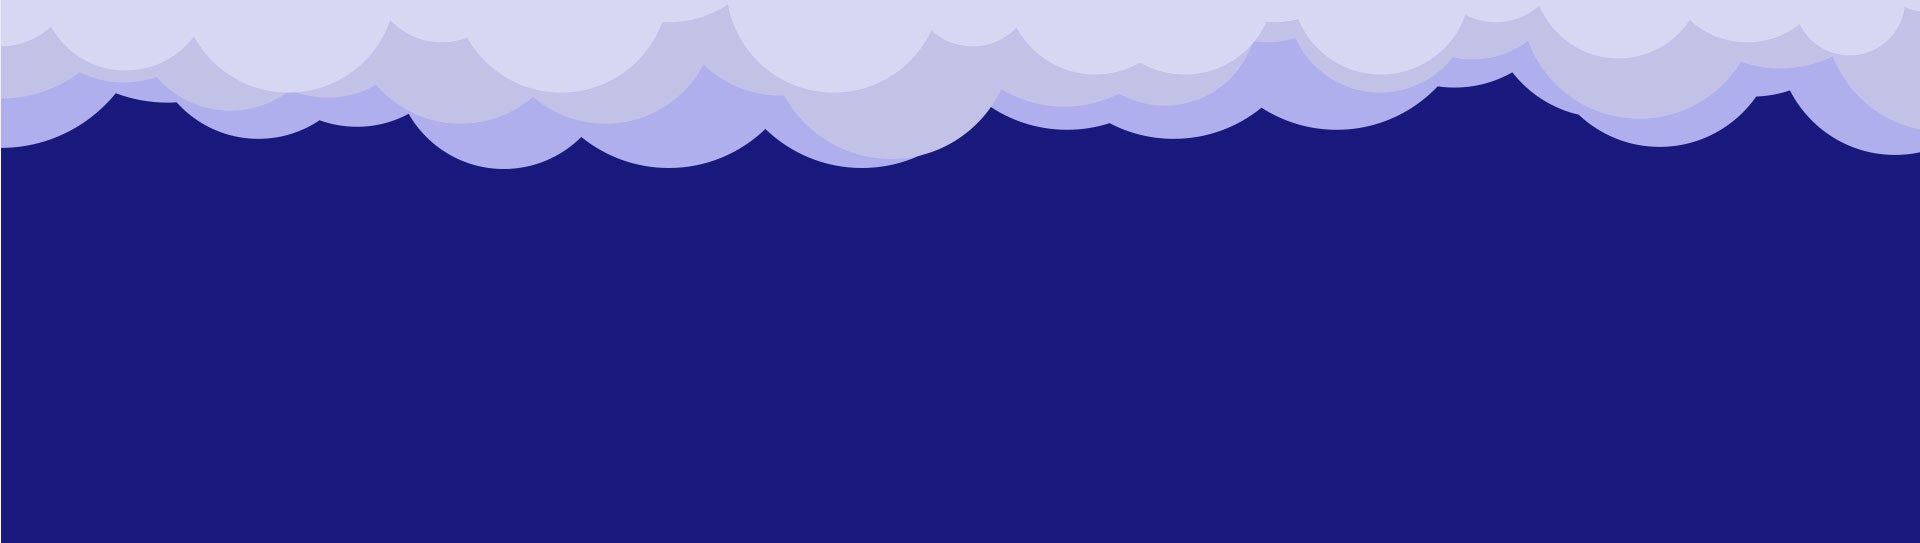
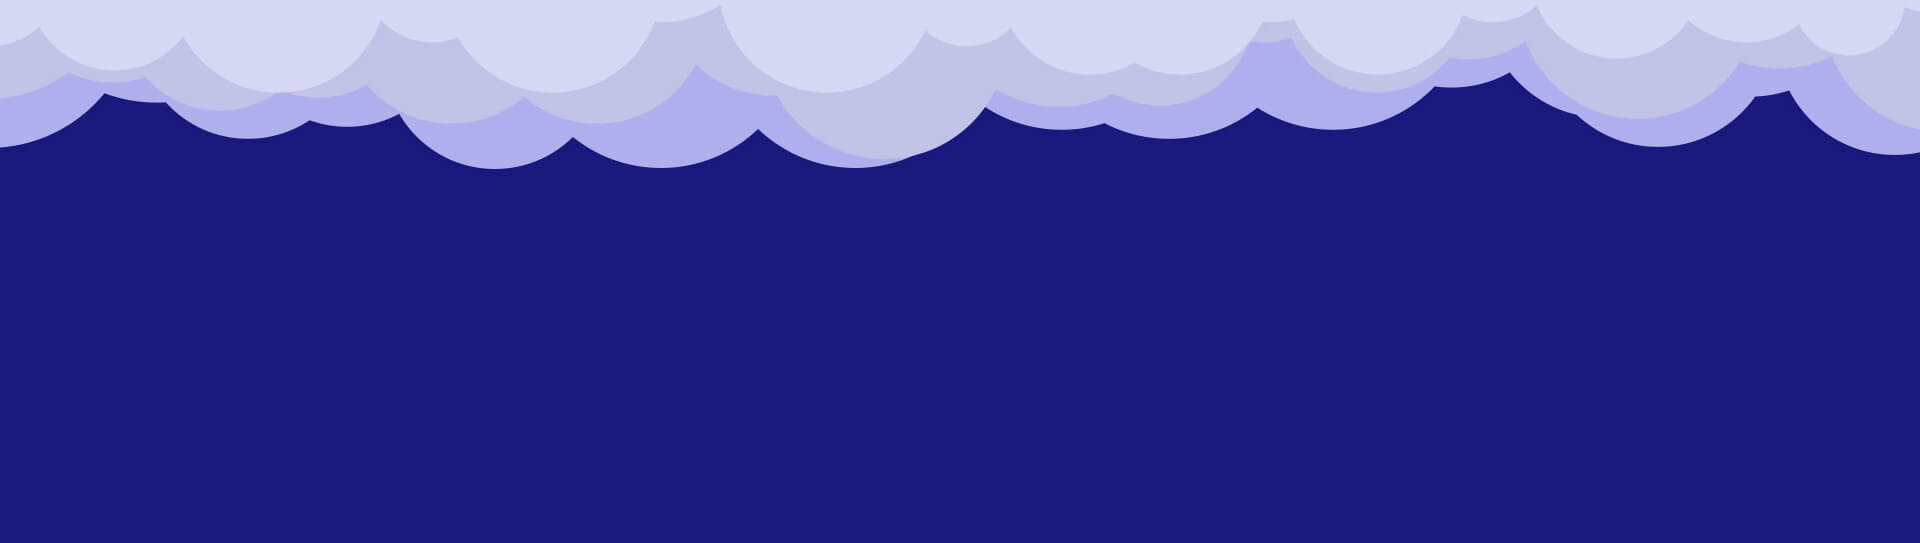
Оптимизировал изображения и поправил адаптацию footer

diff --git a/css/style.min.css b/css/style.min.css
@@ -1,2 +1,2 @@
 @charset "UTF-8";
-/*! normalize.css v4.2.0 | MIT License | github.com/necolas/normalize.css */html{font-family:sans-serif;line-height:1.15;-ms-text-size-adjust:100%;-webkit-text-size-adjust:100%}body{margin:0}article,aside,details,figcaption,figure,footer,header,main,menu,nav,section,summary{display:block}audio,canvas,progress,video{display:inline-block}audio:not([controls]){display:none;height:0}progress{vertical-align:baseline}[hidden],template{display:none}a{background-color:transparent;-webkit-text-decoration-skip:objects}a:active,a:hover{outline-width:0}abbr[title]{border-bottom:none;text-decoration:underline;-webkit-text-decoration:underline dotted;text-decoration:underline dotted}b,strong{font-weight:inherit;font-weight:bolder}dfn{font-style:italic}h1{font-size:2em;margin:.67em 0}mark{background-color:#ff0;color:#000}small{font-size:80%}sub,sup{font-size:75%;line-height:0;position:relative;vertical-align:baseline}sub{bottom:-.25em}sup{top:-.5em}img{border-style:none}svg:not(:root){overflow:hidden}code,kbd,pre,samp{font-family:monospace,monospace;font-size:1em}figure{margin:1em 40px}hr{box-sizing:content-box;height:0;overflow:visible}button,input,optgroup,select,textarea{font:inherit;margin:0}optgroup{font-weight:700}button,input{overflow:visible}button,select{text-transform:none}[type=reset],[type=submit],button,html [type=button]{-webkit-appearance:button}[type=button]::-moz-focus-inner,[type=reset]::-moz-focus-inner,[type=submit]::-moz-focus-inner,button::-moz-focus-inner{border-style:none;padding:0}[type=button]:-moz-focusring,[type=reset]:-moz-focusring,[type=submit]:-moz-focusring,button:-moz-focusring{outline:1px dotted ButtonText}fieldset{border:1px solid silver;margin:0 2px;padding:.35em .625em .75em}legend{box-sizing:border-box;color:inherit;display:table;max-width:100%;padding:0;white-space:normal}textarea{overflow:auto}[type=checkbox],[type=radio]{box-sizing:border-box;padding:0}[type=number]::-webkit-inner-spin-button,[type=number]::-webkit-outer-spin-button{height:auto}[type=search]{-webkit-appearance:textfield;outline-offset:-2px}[type=search]::-webkit-search-cancel-button,[type=search]::-webkit-search-decoration{-webkit-appearance:none}::-webkit-input-placeholder{color:inherit;opacity:.54}::-webkit-file-upload-button{-webkit-appearance:button;font:inherit}@font-face{font-family:regular;src:url(../fonts/Alegreyasans.woff2) format("woff2"),url(../fonts/Alegreyasans.woff) format("woff");font-weight:400;font-style:normal}@font-face{font-family:bold;src:url(../fonts/Alegreyasansbold.woff2) format("woff2"),url(../fonts/Alegreyasansbold.woff) format("woff");font-weight:400;font-style:normal}@font-face{font-family:extrabold;src:url(../fonts/Alegreyasansextrabold.woff2) format("woff2"),url(../fonts/Alegreyasansextrabold.woff) format("woff");font-weight:400;font-style:normal}@font-face{font-family:medium;src:url(../fonts/Alegreyasansmedium.woff2) format("woff2"),url(../fonts/Alegreyasansmedium.woff) format("woff");font-weight:400;font-style:normal}body{position:relative;font-family:medium,Arial,sans-serif;font-size:18px}@media (min-width:1640px){body{font-size:24px}}a{text-decoration:none}img{max-width:100%;height:auto}.clearfix:after{content:"";display:table;clear:both}h1,h2,h3{text-transform:uppercase}h2{font-family:extrabold,Arial,sans-serif;font-size:52px;line-height:52px;text-align:center}@media (min-width:1640px){h2{font-size:72px;line-height:72px}}.container{margin:0 auto;width:1100px}@media (min-width:1640px){.container{width:1630px}}.header{background-color:#19197c;padding-top:15px}@media (min-width:1640px){.header{padding-top:20px}}.header__wrap{display:-ms-flexbox;display:flex;-ms-flex-pack:justify;justify-content:space-between;-ms-flex-align:center;align-items:center}.header__logo img{width:200px}@media (min-width:1640px){.header__logo img{width:277px}}.header__nav a{color:#d9d9ec;text-transform:uppercase;font-family:bold,Arial,sans-serif;margin-right:20px}@media (min-width:1640px){.header__nav a{margin-right:30px}}.header__nav a:last-child{margin-right:0}.header__entry{background-color:#19197c;border:2px solid #d24b43;color:#d24b43;text-transform:uppercase;font-family:bold,Arial,sans-serif;padding:12px 23px}@media (min-width:1640px){.header__entry{padding:18px 33px;border:3px solid #d24b43}}.header__link--active{position:relative}.header__link--active:before{position:absolute;content:"";width:34px;height:1px;background-color:#d24b43;top:20px;left:0}@media (min-width:1640px){.header__link--active:before{top:30px}}.about{background:#19197c url(../img/rocket.jpg) no-repeat;background-size:cover;padding:0;padding-top:100px;padding-bottom:300px;color:#eaeaf5;width:100%}@media (min-width:1640px){.about{padding-top:165px;padding-bottom:325px}}.about__wrap{max-width:700px}@media (min-width:1640px){.about__wrap{max-width:1068px}}.about__title{font-family:extrabold,Arial,sans-serif;font-size:40px;line-height:52px;margin-top:0;margin-bottom:40px}@media (min-width:1640px){.about__title{font-size:60px;line-height:72px;margin-bottom:60px}}.about__text{font-size:26px;font-family:regular,Arial,sans-serif;margin-bottom:40px}@media (min-width:1640px){.about__text{margin-bottom:60px;font-size:36px}}.about__but{width:220px;height:59px;background-color:#d24b43;border:none;cursor:pointer;color:#eaeaf5;text-transform:uppercase;font-family:bold,Arial,sans-serif}@media (min-width:1640px){.about__but{width:290px;height:79px}}.advantages{background-color:#d6d6f2;padding-top:155px;margin-top:-1px;padding-bottom:100px;color:#1f1f79}.advantages__wrap{display:-ms-flexbox;display:flex;-ms-flex-pack:justify;justify-content:space-between;padding-top:90px}@media (min-width:1640px){.advantages__wrap{padding-top:215px}}.advantages__title{margin:0}.advantages__item{display:-ms-flexbox;display:flex;-ms-flex-direction:column;flex-direction:column;-ms-flex-align:center;align-items:center;text-align:center}.advantages__item p{line-height:36px;max-width:257px}@media (min-width:1640px){.advantages__item p{max-width:287px}}.advantages__item img{width:240px}@media (min-width:1640px){.advantages__item img{width:287px}}.advantages__item-wrap:hover .advantages__item-title{margin-top:40px}@media (min-width:1640px){.advantages__item-wrap:hover .advantages__item-title{margin-top:80px}}.advantages__item-title{font-family:bold,Arial,sans-serif;font-size:38px;margin-top:100px;margin-bottom:0;transition:margin-top .7s;cursor:pointer}@media (min-width:1640px){.advantages__item-title{margin-top:168px;font-size:48px}}.advantages__hidden{opacity:0;transition:opacity .7s}.advantages__item-wrap:hover .advantages__hidden{opacity:1}.social-link a{margin-right:10px}@media (min-width:1640px){.social-link a{margin-right:30px}}.social-link a img{width:32px;height:32px}@media (min-width:1640px){.social-link a img{width:42px;height:42px}}.social-link a:last-child{margin-right:0}.courses__item{display:-ms-flexbox;display:flex;outline:none}.courses__left{width:45%;background-color:#d6d6f2;padding-left:5%;padding-right:10px;padding-top:30px;color:#1f1f79}@media (min-width:1640px){.courses__left{padding-top:68px}}.courses__left h2{font-family:extrabold,Arial,sans-serif;text-align:right;margin-top:0;margin-bottom:138px}.courses__left-text{max-width:500px}@media (min-width:1640px){.courses__left-text{max-width:627px}}.courses__left-text h3{font-family:bold,Arial,sans-serif;font-size:38px}@media (min-width:1640px){.courses__left-text h3{font-size:48px}}.courses__right{width:50%;background-color:#1f1f79;padding-left:10px;position:relative;min-height:700px;padding-top:30px}@media (min-width:1640px){.courses__right{padding-top:68px;min-height:1082px}}.courses__right h2{font-family:extrabold,Arial,sans-serif;color:#e5e5ed;margin-top:0;text-align:left}.courses__presentation{position:absolute;top:50%;left:50%;margin:-172px 0 0 -172px;width:344px}@media (min-width:1640px){.courses__presentation{width:444px;margin:-222px 0 0 -222px}}.courses__triangle{width:0;height:0;border-top:125px solid transparent;border-left:195px solid #d24b43;border-bottom:125px solid transparent;margin-top:-125px;left:-65px}.courses__arrow,.courses__triangle{position:absolute;top:50%;cursor:pointer}.courses__arrow{margin-top:-13px;left:-10px}.courses__right-wrap{position:absolute;top:50%;margin-top:-125px;left:-65px;cursor:pointer}.courses__right-img{transition:all .7s}.courses__right-circle,.courses__right-wrap:hover .courses__right-img{transform:scaleX(0) scaleY(0)}.courses__right-circle{position:absolute;width:290px;height:290px;background-color:#d24b43;border:none;border-radius:50%;top:0;left:-81px;transition:all .7s}.courses__right-circle-text{margin:0;text-align:center;line-height:290px;text-transform:uppercase;color:#e9e9f1;font-size:30px;opacity:0;transition:all .7s}.courses__right-wrap:hover .courses__right-circle-text{opacity:1}.courses__right-position{position:relative}.courses__right-wrap:hover .courses__right-circle{transform:scaleX(1) scaleY(1);opacity:1}.teachers{background-color:#d6d6f2;padding-top:72px;padding-bottom:277px}@media (min-width:1640px){.teachers{padding-bottom:377px}}.teachers h2{font-family:extrabold,Arial,sans-serif;text-align:center;margin:0;color:#1f1f79;margin-bottom:66px}@media (min-width:1640px){.teachers h2{margin-bottom:86px}}.teachers__wrap{display:-ms-flexbox;display:flex;-ms-flex-pack:justify;justify-content:space-between}.teachers__item{background-color:#1f1f79;padding:36px 20px;border-radius:5px;color:#d6d6f2;text-align:center;max-width:310px}@media (min-width:1640px){.teachers__item{padding:55px 30px;max-width:510px}}.teachers__item h3{margin-top:0;margin-bottom:30px;font-size:30px}.teachers__item p{font-family:regular,Arial,sans-serif;font-size:18px;margin-bottom:58px}.teachers__circle{width:216px;height:216px;border-radius:50%;border:none;background-color:#d6d6f2;margin:0 auto 55px}@media (min-width:1640px){.teachers__circle{width:316px;height:316px}}.teachers__social{display:-ms-flexbox;display:flex;-ms-flex-pack:justify;justify-content:space-between}.teachers__social a{margin-right:30px}.teachers__social img:last-child{margin-right:0}.teachers__slider .slick-dots{position:absolute;bottom:-110px;list-style:none;display:block;text-align:center;padding:0;margin:0;width:100%}.reviews{background-color:#d6d6f2;padding-bottom:255px}@media (min-width:1640px){.reviews{padding-bottom:377px}}.reviews h2{font-family:extrabold,Arial,sans-serif;text-align:center;margin:0;color:#1f1f79;margin-bottom:86px}.reviews__wrap{display:-ms-flexbox;display:flex;-ms-flex-pack:justify;justify-content:space-between;-ms-flex-align:start;align-items:flex-start;color:#1f1f79}.reviews__text{margin-top:15px;max-width:650px;padding:20px;border:3px solid #1f1f79;border-radius:5px;line-height:26px;font-size:16px}@media (min-width:1640px){.reviews__text{max-width:1150px;padding:27px;line-height:36px;font-size:24px}}.reviews__text a{display:block;text-align:right;text-decoration:underline;font-size:20px;color:#d24b43}@media (min-width:1640px){.reviews__text a{font-size:30px}}.reviews__circle{width:290px;height:290px;border-radius:50%;border:none;background-color:#1f1f79;margin:0 auto 55px}@media (min-width:1640px){.reviews__circle{width:350px;height:350px}}.reviews__about{text-align:center}.reviews__about h3{margin-top:0;margin-bottom:30px;font-size:30px}.reviews__about p{font-family:regular,Arial,sans-serif;font-size:18px;margin-bottom:58px}.reviews__slider .slick-dots{position:absolute;bottom:-70px;list-style:none;display:block;text-align:center;padding:0;margin:0;width:100%}@media (min-width:1640px){.reviews__slider .slick-dots{bottom:-110px}}.bottom{background:url(../img/bottom.jpg) no-repeat;background-size:cover;padding:0;width:100%;height:250px}.slick-slider{box-sizing:border-box;-webkit-touch-callout:none;-webkit-user-select:none;-moz-user-select:none;-ms-user-select:none;user-select:none;-ms-touch-action:pan-y;touch-action:pan-y;-webkit-tap-highlight-color:transparent}.slick-list,.slick-slider{position:relative;display:block}.slick-list{overflow:hidden;margin:0;padding:0}.slick-list:focus{outline:none}.slick-list.dragging{cursor:pointer;cursor:hand}.slick-slider .slick-list,.slick-slider .slick-track{transform:translateZ(0)}.slick-track{position:relative;left:0;top:0;display:block;margin-left:auto;margin-right:auto}.slick-track:after,.slick-track:before{content:"";display:table}.slick-track:after{clear:both}.slick-loading .slick-track{visibility:hidden}.slick-slide{float:left;height:100%;min-height:1px;outline:none;display:none}.slick-slide img{display:block}.slick-slide.slick-loading img{display:none}.slick-slide.dragging img{pointer-events:none}.slick-initialized .slick-slide{display:block}.slick-loading .slick-slide{visibility:hidden}.slick-vertical .slick-slide{display:block;height:auto;border:1px solid transparent}.slick-arrow.slick-hidden{display:none}.slick-next,.slick-prev{position:absolute;display:block;height:20px;width:20px;line-height:0;font-size:0;cursor:pointer;top:50%;transform:translateY(-50%);padding:0;border:none}.slick-next,.slick-next:focus,.slick-next:hover,.slick-prev,.slick-prev:focus,.slick-prev:hover{background:transparent;color:transparent;outline:none}.slick-next:focus:before,.slick-next:hover:before,.slick-prev:focus:before,.slick-prev:hover:before{opacity:1}.slick-next.slick-disabled:before,.slick-prev.slick-disabled:before{opacity:.25}.slick-next:before,.slick-prev:before{font-family:slick;font-size:20px;line-height:1;color:#fff;opacity:.75;-webkit-font-smoothing:antialiased;-moz-osx-font-smoothing:grayscale}.slick-prev{left:-25px}.slick-prev:before{content:"←"}[dir=rtl] .slick-prev:before{content:"→"}.slick-next{right:-25px}.slick-next:before{content:"→"}[dir=rtl] .slick-next:before{content:"←"}.slick-dots{position:absolute;bottom:100px;list-style:none;display:block;text-align:center;padding:0;margin:0;width:165px;margin-left:38%}.slick-dots li{position:relative;display:inline-block;height:20px;width:20px;margin:0 8px;padding:0}.slick-dots li button{padding:0;width:25px;height:25px;border-radius:50%;background-color:#1f1f79;border:none;font-size:0}.slick-dots li button:focus,.slick-dots li button:hover{cursor:pointer;outline:none}.slick-dots li.slick-active button{background-color:#d24b43;width:30px;height:30px}.footer{background-color:#19197c;color:#d6d6f2;padding-bottom:115px}.footer__wrap{display:-ms-flexbox;display:flex;-ms-flex-pack:justify;justify-content:space-between}.footer__about{max-width:360px;font-family:regular,Arial,sans-serif;font-size:18px;line-height:24px}.footer__about p{margin-bottom:60px}.footer__logo{margin-bottom:55px}.footer__nav h3{margin-top:0;font-size:30px;margin-bottom:45px;font-family:regular,Arial,sans-serif}.footer__nav ul{padding:0}.footer__nav ul li{list-style-type:none;margin-bottom:20px}.footer__nav ul li a{color:#d6d6f2;line-height:24px;text-transform:uppercase}.footer__nav ul li:last-child{margin-bottom:0}.footer__social-icon{margin-bottom:44px;margin-top:-10px}.footer__social-icon a{margin-right:25px}.footer__social-icon a:last-child{margin-right:0}.footer__social-facebook{border:2px solid #d6d6f2;border-radius:5px}.footer__social-facebook-title{border-bottom:1px solid #d6d6f2;padding-left:12px;padding-bottom:20px;padding-top:16px;margin:0;margin-bottom:15px}.footer__social-about{display:-ms-flexbox;display:flex}.footer__social-circle{margin-left:12px;margin-right:30px;width:66px;height:66px;border-radius:50%;border:none;background-color:#d6d6f2}.footer__social-title p{margin-top:0;margin-bottom:6px}.footer__social-like{width:121px;height:23px;border:none;outline:none;background-color:#d24b43;font-family:extrabold,Arial,sans-serif;color:#d6d6f2;font-size:18px;cursor:pointer}.footer__social-block{max-width:320px;display:-ms-flexbox;display:flex;-ms-flex-wrap:wrap;flex-wrap:wrap;-ms-flex-pack:justify;justify-content:space-between;margin-left:12px;margin-right:12px;margin-top:15px}.footer__social-item{width:68px;height:42px;background-color:#d6d6f2;margin-bottom:12px}
+/*! normalize.css v4.2.0 | MIT License | github.com/necolas/normalize.css */html{font-family:sans-serif;line-height:1.15;-ms-text-size-adjust:100%;-webkit-text-size-adjust:100%}body{margin:0}article,aside,details,figcaption,figure,footer,header,main,menu,nav,section,summary{display:block}audio,canvas,progress,video{display:inline-block}audio:not([controls]){display:none;height:0}progress{vertical-align:baseline}[hidden],template{display:none}a{background-color:transparent;-webkit-text-decoration-skip:objects}a:active,a:hover{outline-width:0}abbr[title]{border-bottom:none;text-decoration:underline;-webkit-text-decoration:underline dotted;text-decoration:underline dotted}b,strong{font-weight:inherit;font-weight:bolder}dfn{font-style:italic}h1{font-size:2em;margin:.67em 0}mark{background-color:#ff0;color:#000}small{font-size:80%}sub,sup{font-size:75%;line-height:0;position:relative;vertical-align:baseline}sub{bottom:-.25em}sup{top:-.5em}img{border-style:none}svg:not(:root){overflow:hidden}code,kbd,pre,samp{font-family:monospace,monospace;font-size:1em}figure{margin:1em 40px}hr{box-sizing:content-box;height:0;overflow:visible}button,input,optgroup,select,textarea{font:inherit;margin:0}optgroup{font-weight:700}button,input{overflow:visible}button,select{text-transform:none}[type=reset],[type=submit],button,html [type=button]{-webkit-appearance:button}[type=button]::-moz-focus-inner,[type=reset]::-moz-focus-inner,[type=submit]::-moz-focus-inner,button::-moz-focus-inner{border-style:none;padding:0}[type=button]:-moz-focusring,[type=reset]:-moz-focusring,[type=submit]:-moz-focusring,button:-moz-focusring{outline:1px dotted ButtonText}fieldset{border:1px solid silver;margin:0 2px;padding:.35em .625em .75em}legend{box-sizing:border-box;color:inherit;display:table;max-width:100%;padding:0;white-space:normal}textarea{overflow:auto}[type=checkbox],[type=radio]{box-sizing:border-box;padding:0}[type=number]::-webkit-inner-spin-button,[type=number]::-webkit-outer-spin-button{height:auto}[type=search]{-webkit-appearance:textfield;outline-offset:-2px}[type=search]::-webkit-search-cancel-button,[type=search]::-webkit-search-decoration{-webkit-appearance:none}::-webkit-input-placeholder{color:inherit;opacity:.54}::-webkit-file-upload-button{-webkit-appearance:button;font:inherit}@font-face{font-family:regular;src:url(../fonts/Alegreyasans.woff2) format("woff2"),url(../fonts/Alegreyasans.woff) format("woff");font-weight:400;font-style:normal}@font-face{font-family:bold;src:url(../fonts/Alegreyasansbold.woff2) format("woff2"),url(../fonts/Alegreyasansbold.woff) format("woff");font-weight:400;font-style:normal}@font-face{font-family:extrabold;src:url(../fonts/Alegreyasansextrabold.woff2) format("woff2"),url(../fonts/Alegreyasansextrabold.woff) format("woff");font-weight:400;font-style:normal}@font-face{font-family:medium;src:url(../fonts/Alegreyasansmedium.woff2) format("woff2"),url(../fonts/Alegreyasansmedium.woff) format("woff");font-weight:400;font-style:normal}body{position:relative;font-family:medium,Arial,sans-serif;font-size:18px}@media (min-width:1640px){body{font-size:24px}}a{text-decoration:none}img{max-width:100%;height:auto}.clearfix:after{content:"";display:table;clear:both}h1,h2,h3{text-transform:uppercase}h2{font-family:extrabold,Arial,sans-serif;font-size:52px;line-height:52px;text-align:center}@media (min-width:1640px){h2{font-size:72px;line-height:72px}}.container{margin:0 auto;width:1100px}@media (min-width:1640px){.container{width:1630px}}.header{background-color:#19197c;padding-top:15px}@media (min-width:1640px){.header{padding-top:20px}}.header__wrap{display:-ms-flexbox;display:flex;-ms-flex-pack:justify;justify-content:space-between;-ms-flex-align:center;align-items:center}.header__logo img{width:200px}@media (min-width:1640px){.header__logo img{width:277px}}.header__nav a{color:#d9d9ec;text-transform:uppercase;font-family:bold,Arial,sans-serif;margin-right:20px}@media (min-width:1640px){.header__nav a{margin-right:30px}}.header__nav a:last-child{margin-right:0}.header__entry{background-color:#19197c;border:2px solid #d24b43;color:#d24b43;text-transform:uppercase;font-family:bold,Arial,sans-serif;padding:12px 23px}@media (min-width:1640px){.header__entry{padding:18px 33px;border:3px solid #d24b43}}.header__link--active{position:relative}.header__link--active:before{position:absolute;content:"";width:34px;height:1px;background-color:#d24b43;top:20px;left:0}@media (min-width:1640px){.header__link--active:before{top:30px}}.about{background:#19197c url(../img/rocket.jpg) no-repeat;background-size:cover;padding:0;padding-top:100px;padding-bottom:300px;color:#eaeaf5;width:100%}@media (min-width:1640px){.about{padding-top:165px;padding-bottom:325px}}.about__wrap{max-width:700px}@media (min-width:1640px){.about__wrap{max-width:1068px}}.about__title{font-family:extrabold,Arial,sans-serif;font-size:40px;line-height:52px;margin-top:0;margin-bottom:40px}@media (min-width:1640px){.about__title{font-size:60px;line-height:72px;margin-bottom:60px}}.about__text{font-size:26px;font-family:regular,Arial,sans-serif;margin-bottom:40px}@media (min-width:1640px){.about__text{margin-bottom:60px;font-size:36px}}.about__but{width:220px;height:59px;background-color:#d24b43;border:none;cursor:pointer;color:#eaeaf5;text-transform:uppercase;font-family:bold,Arial,sans-serif}@media (min-width:1640px){.about__but{width:290px;height:79px}}.advantages{background-color:#d6d6f2;padding-top:155px;margin-top:-1px;padding-bottom:100px;color:#1f1f79}.advantages__wrap{display:-ms-flexbox;display:flex;-ms-flex-pack:justify;justify-content:space-between;padding-top:90px}@media (min-width:1640px){.advantages__wrap{padding-top:215px}}.advantages__title{margin:0}.advantages__item{display:-ms-flexbox;display:flex;-ms-flex-direction:column;flex-direction:column;-ms-flex-align:center;align-items:center;text-align:center}.advantages__item p{line-height:36px;max-width:257px}@media (min-width:1640px){.advantages__item p{max-width:287px}}.advantages__item img{width:240px}@media (min-width:1640px){.advantages__item img{width:287px}}.advantages__item-wrap:hover .advantages__item-title{margin-top:40px}@media (min-width:1640px){.advantages__item-wrap:hover .advantages__item-title{margin-top:80px}}.advantages__item-title{font-family:bold,Arial,sans-serif;font-size:38px;margin-top:100px;margin-bottom:0;transition:margin-top .7s;cursor:pointer}@media (min-width:1640px){.advantages__item-title{margin-top:168px;font-size:48px}}.advantages__hidden{opacity:0;transition:opacity .7s}.advantages__item-wrap:hover .advantages__hidden{opacity:1}.social-link a{margin-right:10px}@media (min-width:1640px){.social-link a{margin-right:30px}}.social-link a img{width:32px;height:32px}@media (min-width:1640px){.social-link a img{width:42px;height:42px}}.social-link a:last-child{margin-right:0}.courses__item{display:-ms-flexbox;display:flex;outline:none}.courses__left{width:45%;background-color:#d6d6f2;padding-left:5%;padding-right:10px;padding-top:30px;color:#1f1f79}@media (min-width:1640px){.courses__left{padding-top:68px}}.courses__left h2{font-family:extrabold,Arial,sans-serif;text-align:right;margin-top:0;margin-bottom:138px}.courses__left-text{max-width:481px}@media (min-width:1640px){.courses__left-text{max-width:627px}}.courses__left-text h3{font-family:bold,Arial,sans-serif;font-size:38px}@media (min-width:1640px){.courses__left-text h3{font-size:48px}}.courses__right{width:50%;background-color:#1f1f79;padding-left:10px;position:relative;min-height:700px;padding-top:30px}@media (min-width:1640px){.courses__right{padding-top:68px;min-height:1082px}}.courses__right h2{font-family:extrabold,Arial,sans-serif;color:#e5e5ed;margin-top:0;text-align:left}.courses__presentation{position:absolute;top:50%;left:50%;margin:-172px 0 0 -172px;width:344px}@media (min-width:1640px){.courses__presentation{width:444px;margin:-222px 0 0 -222px}}.courses__triangle{width:0;height:0;border-top:125px solid transparent;border-left:195px solid #d24b43;border-bottom:125px solid transparent;margin-top:-125px;left:-65px}.courses__arrow,.courses__triangle{position:absolute;top:50%;cursor:pointer}.courses__arrow{margin-top:-13px;left:-10px}.courses__right-wrap{position:absolute;top:50%;margin-top:-125px;left:-65px;cursor:pointer}.courses__right-img{transition:all .7s;width:180px}@media (min-width:1640px){.courses__right-img{width:270px}}.courses__right-circle,.courses__right-wrap:hover .courses__right-img{transform:scaleX(0) scaleY(0)}.courses__right-circle{position:absolute;width:200px;height:200px;background-color:#d24b43;border:none;border-radius:50%;top:0;left:-36px;transition:all .7s}@media (min-width:1640px){.courses__right-circle{width:290px;height:290px;left:-81px}}.courses__right-circle-text{margin:0;text-align:center;line-height:200px;text-transform:uppercase;color:#e9e9f1;font-size:20px;opacity:0;transition:all .7s}@media (min-width:1640px){.courses__right-circle-text{line-height:290px;font-size:30px}}.courses__right-wrap:hover .courses__right-circle-text{opacity:1}.courses__right-position{position:relative}.courses__right-wrap:hover .courses__right-circle{transform:scaleX(1) scaleY(1);opacity:1}.teachers{background-color:#d6d6f2;padding-top:72px;padding-bottom:277px}@media (min-width:1640px){.teachers{padding-bottom:377px}}.teachers h2{font-family:extrabold,Arial,sans-serif;text-align:center;margin:0;color:#1f1f79;margin-bottom:66px}@media (min-width:1640px){.teachers h2{margin-bottom:86px}}.teachers__wrap{display:-ms-flexbox;display:flex;-ms-flex-pack:justify;justify-content:space-between}.teachers__item{background-color:#1f1f79;padding:36px 20px;border-radius:5px;color:#d6d6f2;text-align:center;max-width:310px}@media (min-width:1640px){.teachers__item{padding:55px 30px;max-width:510px}}.teachers__item h3{margin-top:0;margin-bottom:30px;font-size:30px}.teachers__item p{font-family:regular,Arial,sans-serif;font-size:18px;margin-bottom:58px}.teachers__circle{width:216px;height:216px;border-radius:50%;border:none;background-color:#d6d6f2;margin:0 auto 55px}@media (min-width:1640px){.teachers__circle{width:316px;height:316px}}.teachers__social{display:-ms-flexbox;display:flex;-ms-flex-pack:justify;justify-content:space-between}.teachers__social a{margin-right:30px}.teachers__social img:last-child{margin-right:0}.teachers__slider .slick-dots{position:absolute;bottom:-110px;list-style:none;display:block;text-align:center;padding:0;margin:0;width:100%}.reviews{background-color:#d6d6f2;padding-bottom:255px}@media (min-width:1640px){.reviews{padding-bottom:377px}}.reviews h2{font-family:extrabold,Arial,sans-serif;text-align:center;margin:0;color:#1f1f79;margin-bottom:86px}.reviews__wrap{display:-ms-flexbox;display:flex;-ms-flex-pack:justify;justify-content:space-between;-ms-flex-align:start;align-items:flex-start;color:#1f1f79}.reviews__text{margin-top:15px;max-width:650px;padding:20px;border:3px solid #1f1f79;border-radius:5px;line-height:26px;font-size:16px}@media (min-width:1640px){.reviews__text{max-width:1150px;padding:27px;line-height:36px;font-size:24px}}.reviews__text a{display:block;text-align:right;text-decoration:underline;font-size:20px;color:#d24b43}@media (min-width:1640px){.reviews__text a{font-size:30px}}.reviews__circle{width:290px;height:290px;border-radius:50%;border:none;background-color:#1f1f79;margin:0 auto 55px}@media (min-width:1640px){.reviews__circle{width:350px;height:350px}}.reviews__about{text-align:center}.reviews__about h3{margin-top:0;margin-bottom:30px;font-size:30px}.reviews__about p{font-family:regular,Arial,sans-serif;font-size:18px;margin-bottom:58px}.reviews__slider .slick-dots{position:absolute;bottom:-70px;list-style:none;display:block;text-align:center;padding:0;margin:0;width:100%}@media (min-width:1640px){.reviews__slider .slick-dots{bottom:-110px}}.bottom{background:url(../img/bottom.jpg) no-repeat;background-size:cover;padding:0;width:100%;height:250px}.slick-slider{box-sizing:border-box;-webkit-touch-callout:none;-webkit-user-select:none;-moz-user-select:none;-ms-user-select:none;user-select:none;-ms-touch-action:pan-y;touch-action:pan-y;-webkit-tap-highlight-color:transparent}.slick-list,.slick-slider{position:relative;display:block}.slick-list{overflow:hidden;margin:0;padding:0}.slick-list:focus{outline:none}.slick-list.dragging{cursor:pointer;cursor:hand}.slick-slider .slick-list,.slick-slider .slick-track{transform:translateZ(0)}.slick-track{position:relative;left:0;top:0;display:block;margin-left:auto;margin-right:auto}.slick-track:after,.slick-track:before{content:"";display:table}.slick-track:after{clear:both}.slick-loading .slick-track{visibility:hidden}.slick-slide{float:left;height:100%;min-height:1px;outline:none;display:none}.slick-slide img{display:block}.slick-slide.slick-loading img{display:none}.slick-slide.dragging img{pointer-events:none}.slick-initialized .slick-slide{display:block}.slick-loading .slick-slide{visibility:hidden}.slick-vertical .slick-slide{display:block;height:auto;border:1px solid transparent}.slick-arrow.slick-hidden{display:none}.slick-next,.slick-prev{position:absolute;display:block;height:20px;width:20px;line-height:0;font-size:0;cursor:pointer;top:50%;transform:translateY(-50%);padding:0;border:none}.slick-next,.slick-next:focus,.slick-next:hover,.slick-prev,.slick-prev:focus,.slick-prev:hover{background:transparent;color:transparent;outline:none}.slick-next:focus:before,.slick-next:hover:before,.slick-prev:focus:before,.slick-prev:hover:before{opacity:1}.slick-next.slick-disabled:before,.slick-prev.slick-disabled:before{opacity:.25}.slick-next:before,.slick-prev:before{font-family:slick;font-size:20px;line-height:1;color:#fff;opacity:.75;-webkit-font-smoothing:antialiased;-moz-osx-font-smoothing:grayscale}.slick-prev{left:-25px}.slick-prev:before{content:"←"}[dir=rtl] .slick-prev:before{content:"→"}.slick-next{right:-25px}.slick-next:before{content:"→"}[dir=rtl] .slick-next:before{content:"←"}.slick-dots{position:absolute;bottom:100px;list-style:none;display:block;text-align:center;padding:0;margin:0;width:165px;margin-left:38%}.slick-dots li{position:relative;display:inline-block;height:20px;width:20px;margin:0 8px;padding:0}.slick-dots li button{padding:0;width:25px;height:25px;border-radius:50%;background-color:#1f1f79;border:none;font-size:0}.slick-dots li button:focus,.slick-dots li button:hover{cursor:pointer;outline:none}.slick-dots li.slick-active button{background-color:#d24b43;width:30px;height:30px}.footer{background-color:#19197c;color:#d6d6f2;padding-bottom:115px}.footer__wrap{display:-ms-flexbox;display:flex;-ms-flex-pack:justify;justify-content:space-between}.footer__about{max-width:360px;font-family:regular,Arial,sans-serif;font-size:18px;line-height:24px}.footer__about p{margin-bottom:60px}.footer__logo{margin-bottom:55px}.footer__nav h3{margin-top:0;font-size:30px;margin-bottom:45px;font-family:regular,Arial,sans-serif}.footer__nav ul{padding:0}.footer__nav ul li{list-style-type:none;margin-bottom:20px}.footer__nav ul li a{color:#d6d6f2;line-height:24px;text-transform:uppercase}.footer__nav ul li:last-child{margin-bottom:0}.footer__social-icon{margin-bottom:44px;margin-top:-10px}.footer__social-icon a{margin-right:25px}.footer__social-icon a:last-child{margin-right:0}.footer__social-facebook{border:2px solid #d6d6f2;border-radius:5px}.footer__social-facebook-title{border-bottom:1px solid #d6d6f2;padding-left:12px;padding-bottom:20px;padding-top:16px;margin:0;margin-bottom:15px}.footer__social-about{display:-ms-flexbox;display:flex}.footer__social-circle{margin-left:12px;margin-right:30px;width:66px;height:66px;border-radius:50%;border:none;background-color:#d6d6f2}.footer__social-title p{margin-top:0;margin-bottom:6px}.footer__social-like{width:121px;height:23px;border:none;outline:none;background-color:#d24b43;font-family:extrabold,Arial,sans-serif;color:#d6d6f2;font-size:18px;cursor:pointer}.footer__social-block{max-width:320px;display:-ms-flexbox;display:flex;-ms-flex-wrap:wrap;flex-wrap:wrap;-ms-flex-pack:justify;justify-content:space-between;margin-left:12px;margin-right:12px;margin-top:15px}.footer__social-item{width:68px;height:42px;background-color:#d6d6f2;margin-bottom:12px}

diff --git a/css/style.css b/css/style.css
@@ -1161,22 +1161,33 @@ h2 {
   .footer__about {
     max-width: 360px;
     font-family: regular, Arial, sans-serif;
-    font-size: 18px;
-    line-height: 24px; }
+    font-size: 16px;
+    line-height: 22px; }
+    @media (min-width: 1640px) {
+      .footer__about {
+        font-size: 18px;
+        line-height: 24px; } }
     .footer__about p {
       margin-bottom: 60px; }
   .footer__logo {
     margin-bottom: 55px; }
   .footer__nav h3 {
     margin-top: 0;
-    font-size: 30px;
-    margin-bottom: 45px;
+    font-size: 25px;
+    margin-bottom: 35px;
     font-family: regular, Arial, sans-serif; }
+    @media (min-width: 1640px) {
+      .footer__nav h3 {
+        font-size: 30px;
+        margin-bottom: 45px; } }
   .footer__nav ul {
     padding: 0; }
     .footer__nav ul li {
       list-style-type: none;
-      margin-bottom: 20px; }
+      margin-bottom: 15px; }
+      @media (min-width: 1640px) {
+        .footer__nav ul li {
+          margin-bottom: 20px; } }
       .footer__nav ul li a {
         color: #d6d6f2;
         line-height: 24px;
@@ -1184,8 +1195,11 @@ h2 {
     .footer__nav ul li:last-child {
       margin-bottom: 0; }
   .footer__social-icon {
-    margin-bottom: 44px;
+    margin-bottom: 30px;
     margin-top: -10px; }
+    @media (min-width: 1640px) {
+      .footer__social-icon {
+        margin-bottom: 44px; } }
     .footer__social-icon a {
       margin-right: 25px; }
     .footer__social-icon a:last-child {
@@ -1209,12 +1223,16 @@ h2 {
   .footer__social-circle {
     margin-left: 12px;
     margin-right: 30px;
-    width: 66px;
-    height: 66px;
+    width: 56px;
+    height: 56px;
     -webkit-border-radius: 50%;
             border-radius: 50%;
     border: none;
     background-color: #d6d6f2; }
+    @media (min-width: 1640px) {
+      .footer__social-circle {
+        width: 66px;
+        height: 66px; } }
   .footer__social-title p {
     margin-top: 0;
     margin-bottom: 6px; }
@@ -1229,7 +1247,7 @@ h2 {
     font-size: 18px;
     cursor: pointer; }
   .footer__social-block {
-    max-width: 320px;
+    max-width: 250px;
     display: -webkit-box;
     display: -webkit-flex;
     display: -ms-flexbox;
@@ -1244,8 +1262,15 @@ h2 {
     margin-left: 12px;
     margin-right: 12px;
     margin-top: 15px; }
+    @media (min-width: 1640px) {
+      .footer__social-block {
+        max-width: 320px; } }
   .footer__social-item {
-    width: 68px;
-    height: 42px;
+    width: 58px;
+    height: 32px;
     background-color: #d6d6f2;
     margin-bottom: 12px; }
+    @media (min-width: 1640px) {
+      .footer__social-item {
+        width: 68px;
+        height: 42px; } }

diff --git a/sass/blocks/footer.scss b/sass/blocks/footer.scss
@@ -11,8 +11,13 @@
   &__about {
     max-width: 360px;
     font-family: regular, Arial, sans-serif;
-    font-size: 18px;
-    line-height: 24px;
+    font-size: 16px;
+    line-height: 22px;
+    @media (min-width: 1640px) {
+      font-size: 18px;
+      line-height: 24px;
+    }
+
     p {
       margin-bottom: 60px;
     }
@@ -25,9 +30,13 @@
   &__nav {
     h3 {
       margin-top: 0;
-      font-size: 30px;
-      margin-bottom: 45px;
+      font-size: 25px;
+      margin-bottom: 35px;
       font-family: regular, Arial, sans-serif;
+      @media (min-width: 1640px) {
+        font-size: 30px;
+        margin-bottom: 45px;
+      }
     }
 
     ul {
@@ -35,7 +44,10 @@
 
       li {
         list-style-type: none;
-        margin-bottom: 20px;
+        margin-bottom: 15px;
+        @media (min-width: 1640px) {
+          margin-bottom: 20px;
+        }
         a {
           color: #d6d6f2;
           line-height: 24px;
@@ -49,8 +61,12 @@
   }
 
   &__social-icon {
-    margin-bottom: 44px;
+    margin-bottom: 30px;
     margin-top: -10px;
+    @media (min-width: 1640px) {
+      margin-bottom: 44px;
+    }
+
     a {
       margin-right: 25px;
     }
@@ -81,11 +97,15 @@
   &__social-circle {
     margin-left: 12px;
     margin-right: 30px;
-    width: 66px;
-    height: 66px;
+    width: 56px;
+    height: 56px;
     border-radius: 50%;
     border: none;
     background-color: #d6d6f2;
+    @media (min-width: 1640px) {
+      width: 66px;
+      height: 66px;
+    }
   }
 
   &__social-title {
@@ -108,19 +128,26 @@
   }
 
   &__social-block {
-    max-width: 320px;
+    max-width: 250px;
     display: flex;
     flex-wrap: wrap;
     justify-content: space-between;
     margin-left: 12px;
     margin-right: 12px;
     margin-top: 15px;
+    @media (min-width: 1640px) {
+      max-width: 320px;
+    }
   }
 
   &__social-item {
-    width: 68px;
-    height: 42px;
+    width: 58px;
+    height: 32px;
     background-color: #d6d6f2;
     margin-bottom: 12px;
+    @media (min-width: 1640px) {
+      width: 68px;
+      height: 42px;
+    }
   }
 }
